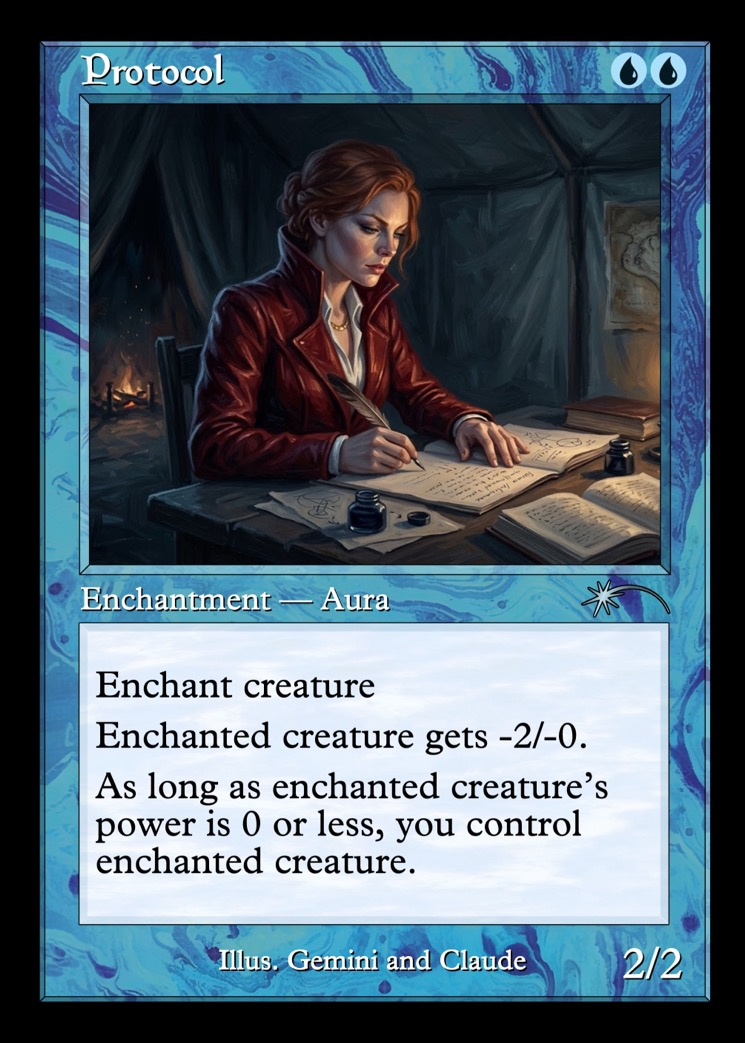
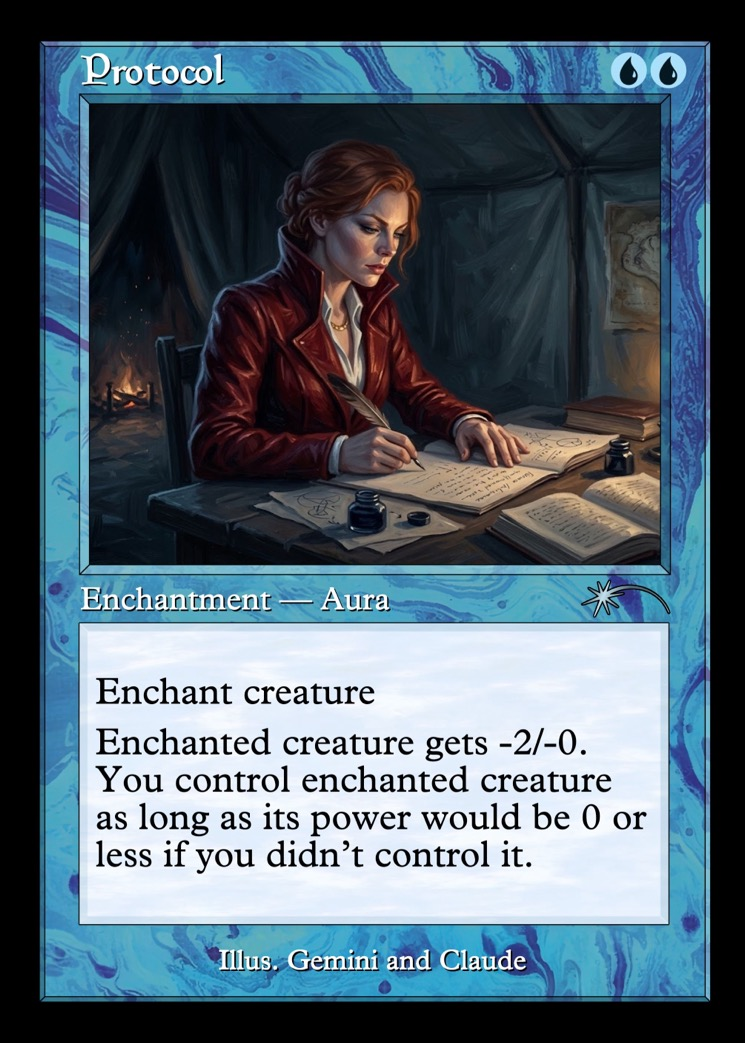
Protocol reworded (Chris): "You control enchanted creature as long as its power would be 0 or less if you didn't control it" — the card now states the reading the engine was built with (R-105: no simplification remains). The corrected printed face (no power/toughness box). A fixture for the Clio syn

Changed region(s): [[0.1235, 0.6443, 0.8644, 0.8591], [0.8336, 0.8897, 0.9262, 0.9511]]

diff --git a/packages/sim/src/s56-cards.test.ts b/packages/sim/src/s56-cards.test.ts
@@ -35,7 +35,9 @@ async function play(opts: { host: string; mine?: string[]; theirs?: string[]; th
 
 /**
  * S56 — Protocol (Chris's card; R-105). {U}{U} Enchantment — Aura. "Enchant creature. Enchanted creature gets -2/-0.
- * As long as enchanted creature's power is 0 or less, you control enchanted creature."
+ * You control enchanted creature as long as its power would be 0 or less if you didn't control it." (Reworded by
+ * Chris the day it was delivered: the first face read "as long as enchanted creature's power is 0 or less", which has
+ * no stable answer when the creature's power differs by who controls it; the engine never changed.)
  * Rules: 303.4 (Auras), 613.1b / 613.4c (control is layer 2, power layer 7c — the condition reads a later layer's
  * result; R-105 records how), 302.6 (a creature that changed control is summoning-sick), 704.5m (an Aura attached to
  * nothing is put into the graveyard — not at issue: the Aura stays on the creature whoever controls it).
@@ -44,7 +46,7 @@ describe("S56 — Protocol (R-105)", () => {
   it("the card as written", () => {
     const p = cards.get("protocol")!;
     expect([p.manaCost, p.types, p.subtypes, p.source, p.shopTier]).toEqual(["{U}{U}", ["Enchantment"], ["Aura"], "custom", 2]);
-    expect(p.text).toBe("Enchant creature\nEnchanted creature gets -2/-0.\nAs long as enchanted creature's power is 0 or less, you control enchanted creature.");
+    expect(p.text).toBe("Enchant creature\nEnchanted creature gets -2/-0. You control enchanted creature as long as its power would be 0 or less if you didn't control it.");
   });
 
   it("on a 2/2 it takes the creature: power 0, ours, and summoning-sick as it arrives (302.6); the Aura stays on it", async () => {
@@ -72,12 +74,19 @@ describe("S56 — Protocol (R-105)", () => {
     expect(g.seen.get(3)).toMatchObject({ controller: 0, power: 0 }); // back with us once the growth ends
   });
 
-  it("an anthem counts where the creature would be WITHOUT the Aura's control (R-105): theirs keeps a 2/2 out of reach (3 − 2 = 1); ours does not hand a taken creature back (it is 1/3 under us and stays)", async () => {
+  it("an anthem counts where the creature would be if we did not control it (the card's own words; R-105): theirs keeps a 2/2 out of reach (3 − 2 = 1); ours does not hand a taken creature back (it is 1/3 under us and stays)", async () => {
     const theirs = await play({ host: "grizzly_bears", theirs: ["glorious_anthem"] });
     expect(theirs.seen.get(1)).toMatchObject({ controller: 1, power: 1 });
     const ours = await play({ host: "grizzly_bears", mine: ["glorious_anthem"] });
     expect(ours.seen.get(1)).toMatchObject({ controller: 0, power: 1 });
     expect(ours.seen.get(3)).toMatchObject({ controller: 0, power: 1 });
+  });
+
+  it("with our Clio (the synergy Chris wrote the card for): a 3/3 under Protocol is theirs at power 1; at our end step Clio's first depth counter makes it 0 under THEM, so it becomes ours — and stays ours, though under us Clio no longer taxes it (power 1)", async () => {
+    const g = await play({ host: "hill_giant", mine: ["clio_lady_of_the_depths"], turns: 3 });
+    expect(g.cast).toBe(true);
+    expect(g.seen.get(2)).toMatchObject({ controller: 0, power: 1 }); // read on their turn: taken at our end step, 3 − 2 under us
+    expect(g.seen.get(3)).toMatchObject({ controller: 0, power: 1 }); // two counters now: still read as theirs-would-be (−1), still ours
   });
 
   it("a second Protocol on a 3/3 takes it (3 − 2 − 2); with the Aura gone the creature goes home", async () => {

diff --git a/packages/engine/src/control.ts b/packages/engine/src/control.ts
@@ -31,7 +31,7 @@ export function syncControl(ctx: EngineCtx): boolean {
         if (ability.kind !== "static") continue;
         for (const e of ability.effects) {
           if (e.type !== "gainControl" || e.scope !== "attached") continue;
-          // S56 (R-105, Protocol — "as long as enchanted creature's power is 0 or less, you control it"): a
+          // S56 (R-105, Protocol — "you control enchanted creature as long as its power would be 0 or less if you didn't control it"): a
           // conditional control static is read with the creature under the control it would have WITHOUT this
           // Aura (the control so far), so the answer does not depend on itself — our own anthem on a creature we
           // took does not hand it back, and no pair of effects can pass it to and fro within one check.

diff --git a/docs/registries/rules-registry.md b/docs/registries/rules-registry.md
@@ -108,4 +108,4 @@ R-numbered entries describing which Comprehensive Rules mechanics the engine imp
 | R-102 | S50's word (red for Limited): "for each nonland card discarded this way" | 608.2c (the instructions in order: discard, then draw, then the count), 608.2h (the effect reads what actually happened as it resolved), 701.8 (discard), 603.3d → 601.2c (a triggered ability's target is chosen if one can be — Flametongue Kavu with no other creature targets itself) | implemented (S50) | ADR-149. **`{ ref: "discardedNonland" }`** — a stack-only value ref: the resolution counts each nonland card its own discard effects put in the graveyard (the shared discard op reports each card to the resolving context), read by a later effect of the same resolution (Seasoned Pyromancer's `createToken` count). An empty hand discards nothing and makes nothing; the draw still happens. Zero elsewhere (statics, cost reductions). The other five cards are zero words: an enters trigger with damage at a creature target (the Kavu), a mana-only self-pump (the Whelp), an own-side enters-watcher (the Sharpshooter — *simplification*: "target opponent" encoded as each opponent), a token maker (the Fodder), Vitalist's life-gained collector at the opponent (the Cobra). Fuzz first: 960 random + 320 heuristic games over two mixed lists, 0 errors; eleven fixtures (`s50-red.test.ts`). |
 | R-103 | The mandatory-loop draw (S55) | 104.4b ("…enters a 'loop' of mandatory actions, repeating a sequence of events with no way to stop, the game is a draw. Loops that contain an optional action don't result in a draw."), 732.4 ("If a loop contains only mandatory actions, the game is a draw.") — both verified 2026-10-05 | implemented (S55) | ADR-159/Concern 4 of the S54 handoff. `engine/game.ts checkLoopDraw`: after each stack item resolves (state-based actions and triggers done) the POSITION is taken — the step, life totals, floating mana, every zone's cards by name (a permanent with controller, tapped, damage, counters, host), the stack by source; no object ids (a card that left and returned is the same card) and no library order. A position already seen this turn is a repeat; a new one clears the count; at `rules.loopDrawCap` (default `LOOP_DRAW_CAP` = 100) the game is a draw (`reason: "DRAW"`, a `LOOP_DRAW` event). **Simplifications:** (1) the engine counts — it does not prove "no way to stop"; (2) **104.4b's exception for a loop containing an optional action is not applied**: a player who repeats a position a hundred times in one turn by choice also draws (the heuristic agent avoids choosing into a loop that gains nothing — book 99); (3) the window is one turn. Fixtures: the Usher loop with cancelling drains → a draw at the cap; the Usher's own loop and the Altar's loop (a life total or a library moves) never trip it; a Skeleton returned a hundred times by hand does not (the lands tapped differ). |
 | R-104 | S55's word (graveyard hate): exile a player's graveyard; exile a card from a graveyard | 700.4 (exile is not a death), 608.2b (a trigger whose only target has become illegal does not resolve — Faerie Macabre exiling the Usher's target in response), 602.1/602.2 (an activated ability's costs are paid as it is activated — the Crypt is in its controller's graveyard when its ability resolves, so aimed at its controller it exiles itself) | implemented (S55) | ADR-162. `exileGraveyard { who }` — every card in that player's graveyard through `moveObject`. `exile` (target / targetSpec) now accepts an object in a graveyard as well as a permanent. Faerie Macabre needed no other word: a hand-zone activated ability (A5) whose cost is `discardSelf` (cycling's), a range target spec (A8) over `cardInYourGraveyard` with who `any`. |
-| R-105 | S56's word (Protocol): a control static conditional on the enchanted creature's power; `atMost` on a static condition | 613.1b / 613.4c (control is applied in layer 2, power in layer 7c), 613.8a (dependency holds only between effects applied in the SAME layer, so it does not settle this), 302.6 (a creature must have been under its controller's control continuously since their most recent turn began), 303.4e (an Aura's controller is separate from the enchanted object's; changing control of the object does not change control of the Aura) — all read on the Comprehensive Rules text 2026-10-06 | implemented (S56) | **`{ref: "attachedPower"}`** — the power of the creature the source Aura is attached to, live — and **`atMost`** beside `atLeast` on `StaticCondition` (exactly one). Validator-confined: `attachedPower` may only condition a static whose every effect is `gainControl` on the attached creature. `syncControl` (the control layer, top of every SBA pass) now honours a control static's condition; before, none had one. **How the condition is read (the interim choice, for the planner):** the card's condition lives in layer 2 and reads a layer-7 result, and a creature's power can itself depend on who controls it (an anthem). The engine reads the creature's power **under the control it would have WITHOUT this Aura** (the control so far, in timestamp order). So the answer never depends on itself: an opponent's Glorious Anthem keeps their 2/2 out of reach (3 − 2 = 1); our own Anthem does not hand a taken 2/2 back (it is 1/3 under us and stays ours); no pair of effects can pass a creature to and fro inside one check. **Known simplification:** under the Comprehensive Rules the condition would be read from the creature's actual power, and the our-own-Anthem case has no stable answer there (taken → pumped → released → shrunk → taken); the engine picks the stable reading above. The condition is otherwise live: a Giant Growth on a taken creature returns it for the turn, and it comes back at cleanup (summoning-sick each time it moves). Inside `characteristics` an `attachedPower` condition is never evaluated (it would ask for the power being computed). Fixtures: `sim/s56-cards.test.ts` (7); fuzz `sim/s56-fuzz.test.ts` (768 full-tier games beside anthems, pump Auras, Control Magic, Lumen, bounce and Aura removal — no exception, replays byte-exact). |
+| R-105 | S56's word (Protocol): a control static conditional on the enchanted creature's power; `atMost` on a static condition | 613.1b / 613.4c (control is applied in layer 2, power in layer 7c), 613.8a (dependency holds only between effects applied in the SAME layer, so it does not settle this), 302.6 (a creature must have been under its controller's control continuously since their most recent turn began), 303.4e (an Aura's controller is separate from the enchanted object's; changing control of the object does not change control of the Aura) — all read on the Comprehensive Rules text 2026-10-06 | implemented (S56) | **`{ref: "attachedPower"}`** — the power of the creature the source Aura is attached to, live — and **`atMost`** beside `atLeast` on `StaticCondition` (exactly one). Validator-confined: `attachedPower` may only condition a static whose every effect is `gainControl` on the attached creature. `syncControl` (the control layer, top of every SBA pass) now honours a control static's condition; before, none had one. **How the condition is read (the card's own words since Chris reworded it, 2026-10-06: "as long as its power would be 0 or less if you didn't control it"):** the condition lives in layer 2 and reads a layer-7 result, and a creature's power can itself depend on who controls it (an anthem, Clio). The engine reads the creature's power **under the control it would have WITHOUT this Aura** (the control so far, in timestamp order). So the answer never depends on itself: an opponent's Glorious Anthem keeps their 2/2 out of reach (3 − 2 = 1); our own Anthem does not hand a taken 2/2 back (it is 1/3 under us and stays ours); no pair of effects can pass a creature to and fro inside one check. **Why the card says "would be … if you didn't control it":** the first face read "as long as enchanted creature's power is 0 or less", which under the Comprehensive Rules has no stable answer in the our-own-Anthem and Clio cases (taken → power rises → released → power falls → taken). The reworded card states the stable reading; no simplification remains. With our Clio a 3/3 under Protocol is taken at her first depth counter and kept (fixture). The condition is otherwise live: a Giant Growth on a taken creature returns it for the turn, and it comes back at cleanup (summoning-sick each time it moves). Inside `characteristics` an `attachedPower` condition is never evaluated (it would ask for the power being computed). Fixtures: `sim/s56-cards.test.ts` (8); fuzz `sim/s56-fuzz.test.ts` (768 full-tier games beside anthems, pump Auras, Control Magic, Lumen, bounce and Aura removal — no exception, replays byte-exact). |

diff --git a/handoff.md b/handoff.md
@@ -9,7 +9,7 @@ Session 56 was the pilot before the lists: three AI changes proposed, each measu
 - **The archive exists and the Loop is in it** (ADR-164). The Open's field is sixteen lists.
 - **The strength table is now one measurement**: sixteen lists, one pilot, 12,000 games.
 
-`pnpm typecheck`, `pnpm test` (968) and the ladder gate pass. **Nothing from this session is pushed.** After the session proper Chris added a card, Protocol: its own section below.
+`pnpm typecheck`, `pnpm test` (969) and the ladder gate pass. **Nothing from this session is pushed.** After the session proper Chris added a card, Protocol: its own section below.
 
 ## For the planner — the decisions waiting
 1. **Three places where I built something other than the brief's design** (Deviations 1–3). Each has its numbers; each needs a ruling.
@@ -107,11 +107,11 @@ Session 56 was the pilot before the lists: three AI changes proposed, each measu
 
 Chris delivered a new custom card with its art and printed face:
 
-> **Protocol** — {U}{U} Enchantment — Aura. Enchant creature. Enchanted creature gets −2/−0. As long as enchanted creature's power is 0 or less, you control enchanted creature.
+> **Protocol** — {U}{U} Enchantment — Aura. Enchant creature. Enchanted creature gets −2/−0. You control enchanted creature as long as its power would be 0 or less if you didn't control it.
 
 - **In the pool** (246 → 247), **tier 2**. Chris allowed tier 2 or 3; it measures below the tier-3 Control Magic in every slot tried.
 - **One new word (R-105):** a control static conditional on the enchanted creature's power (`{ref: "attachedPower"}`, and `atMost` on a static condition).
-- **Fuzz first:** 768 full-tier games beside anthems, pump Auras, Control Magic, Lumen, bounce and Aura removal. No exception; replays byte-exact. Then 7 fixtures.
+- **Fuzz first:** 768 full-tier games beside anthems, pump Auras, Control Magic, Lumen, bounce and Aura removal. No exception; replays byte-exact. Then 8 fixtures.
 - **The AI** prices it as a steal on a creature the shrink brings to 0 and as a partial shrink otherwise (book 110). It casts it 0.4–1.1 times a game.
 - **`open:rr --swap` now takes a variant** (`protocol~cost={1}{U}~shrink=3`), so a card's parameters can be tested in a real list.
 
@@ -140,9 +140,11 @@ What the grid says:
 - **The second blue pip matters more than the mana.** {1}{U} measures about 1.5 points better than {U}{U} at the same mana value, and nearly as well as {U}. This is Concern 1 again (these lists are short of blue).
 - **Nothing in the grid is broken.** The strongest cell tried ({U}, −3/−0) is +5.0 on average and still below Control Magic where both were run.
 
-Two things for Chris and the planner:
-- **A rules choice I made (R-105).** The card's condition is a control effect that reads the creature's power, and a creature's power can depend on who controls it. The engine reads the power the creature would have *without* this Aura's control. So an opponent's Glorious Anthem keeps their 2/2 safe (3 − 2 = 1), and our own Anthem does not hand a taken 2/2 back. Under the printed rules the second case has no stable answer; the engine picks the stable one.
-- **The printed face shows a stray "2/2"** in the power/toughness box. It is wired as delivered; a corrected render is wanted.
+**The wording was settled the same day (Chris).** The first face read "As long as enchanted creature's power is 0 or less, you control enchanted creature." A creature's power can depend on who controls it (an anthem, Clio), and that text has no stable answer then: taken, its power rises; released, it falls. The engine had been built to read the power the creature would have if we did not control it, and Chris reworded the card to say so. Nothing in the engine or the grid changed.
+- An opponent's Glorious Anthem keeps their 2/2 safe (3 − 2 = 1); our own Anthem does not hand a taken 2/2 back.
+- With our Clio, a 3/3 under Protocol is taken at her first depth counter and kept (a fixture pins it). This is the synergy the card was written for.
+- Chris considered a stronger version (the creature comes over at full power) and kept the shrink, so the card is not a two-mana Control Magic beside Clio.
+- The corrected face (no power/toughness box, the new text) is wired.
 
 ## Deviations from the brief
 1. **The counter rule is not the brief's design.** The brief's two clauses (spend held mana at the opponent's end step; cast when the spell's worth exceeds the counter's held value) address what the probe found to be the small parts: the end-step case arises 0.2–0.4 times a game with nothing worth casting, and the pilot already passes only on cheap spells. I built the three things the probe pointed to instead. *The planner should rule on whether the brief's clauses are still wanted.*
@@ -171,13 +173,13 @@ Two things for Chris and the planner:
 - **Pool registry:** `protocol` (Session 56 section; 246 → 247).
 
 ## Test status
-`pnpm test`: 107 files passed, 1 skipped; **968 tests passed, 2 skipped** (the standing two). `pnpm typecheck` passes. `pnpm build:web` not run (nothing pushed).
+`pnpm test`: 107 files passed, 1 skipped; **969 tests passed, 2 skipped** (the standing two). `pnpm typecheck` passes. `pnpm build:web` not run (nothing pushed).
 
 New this session:
 - Book 108 in `agents/book-of-shame.test.ts` (the payment solver, the hand-tapped cast through `chooseAction`, the kept hold, the control multiple, the old pilot).
 - `world/sideboard-s56.test.ts` (5): the shapes read from card data; the fifteen's slots; each shape against the list it is for and not otherwise, across every pairing; the walls leaving first; Limited unchanged.
 - The archive test in `world/constructed-builder.test.ts`.
-- `sim/s56-fuzz.test.ts` (2), `sim/s56-cards.test.ts` (7) and book 110 for Protocol; three pins moved for the new card (the pool count, the shop-tier tally, the generated reference).
+- `sim/s56-fuzz.test.ts` (2), `sim/s56-cards.test.ts` (8) and book 110 for Protocol; three pins moved for the new card (the pool count, the shop-tier tally, the generated reference).
 - **Ladder mirror gate PASS** (pilot 108). Book 110 was added after it: it changes only how an Aura with a conditional steal is priced, and no ladder deck holds one.
 - About 210,000 sim games this session raised no engine error. The hand-tapped payment is a new action path for the AI and ran through all of them.
 

diff --git a/docs/reference/cards.md b/docs/reference/cards.md
@@ -188,7 +188,7 @@
 | Counterspell | U | Instant | {U}{U} | 2 |  |  | 2 | 18 |  | Counter target spell. |
 | Essence Scatter | U | Instant | {1}{U} | 2 |  |  | 1 | 12 |  | Counter target creature spell. |
 | Plumecreed Escort | U | Creature — Bird Scout | {1}{U} | 2 | 2/1 | flash, flying | 1 | 12 |  | Flash Flying When this creature enters, target creature you control gains hexproof until end of turn. |
-| Protocol | U | Enchantment — Aura | {U}{U} | 2 |  |  | 2 | 18 | custom | Enchant creature Enchanted creature gets -2/-0. As long as enchanted creature's power is 0 or less, you control enchanted creature. |
+| Protocol | U | Enchantment — Aura | {U}{U} | 2 |  |  | 2 | 18 | custom | Enchant creature Enchanted creature gets -2/-0. You control enchanted creature as long as its power would be 0 or less if you didn't control it. |
 | Time Walk | U | Sorcery | {1}{U} | 2 |  |  | — | 12 | prizeOnly | Take an extra turn after this one. |
 | Waterfront Bouncer | U | Creature — Merfolk Spellshaper | {1}{U} | 2 | 1/1 |  | 1 | 12 |  | {U}, {T}, Discard a card: Return target creature to its owner's hand. |
 | Aether Channeler | U | Creature — Human Wizard | {2}{U} | 3 | 2/1 |  | 2 | 24 |  | When this creature enters, choose one — • Create a 1/1 white Bird creature token with flying. • Return another target nonland permanent to its owner's hand. • Draw a card. |

diff --git a/docs/registries/pool-registry.md b/docs/registries/pool-registry.md
@@ -641,7 +641,7 @@ Pool 244 → **246**. Two answers to a graveyard loop that any deck can sideboar
 
 | id | name | status | vocabulary | notes |
 |---|---|---|---|---|
-| protocol | Protocol | tested | static `modifyPT` −2/−0 on attached; static `gainControl` on attached with `condition: {value: {ref: "attachedPower"}, atMost: 0}` (R-105 — the one new word) | CUSTOM. {U}{U} Enchantment — Aura. **T2** (Chris allowed T2 or T3; measured below the T3 Control Magic in every slot tried — results/s56/protocol-grid.md). Card art and "as printed" face delivered by Chris; **the printed face shows a stray "2/2" in the power/toughness box** — an Aura has none. Pool 246 → 247. |
+| protocol | Protocol | tested | static `modifyPT` −2/−0 on attached; static `gainControl` on attached with `condition: {value: {ref: "attachedPower"}, atMost: 0}` (R-105 — the one new word) | CUSTOM. {U}{U} Enchantment — Aura. **T2** (Chris allowed T2 or T3; measured below the T3 Control Magic in every slot tried — results/s56/protocol-grid.md). Card art and "as printed" face delivered by Chris. **Reworded by Chris the same day** ("You control enchanted creature as long as its power would be 0 or less if you didn't control it") so the card states the reading the engine uses; the corrected face (no power/toughness box) is wired. Pool 246 → 247. |
 
 ## Shop tiers (ADR-078, S19)
 
